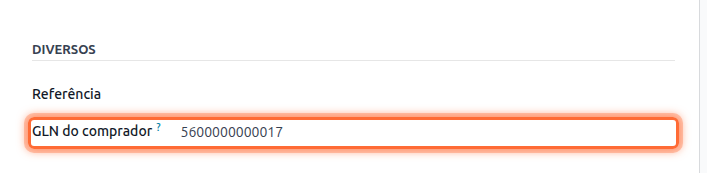
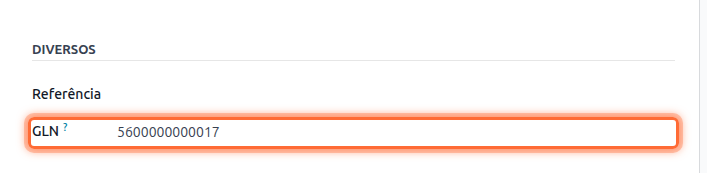
[17.0+][IMP] ptplus_edi_generix: client's GLN field

Changed region(s): [[0.0622, 0.7225, 0.4045, 0.8092]]

diff --git a/content/applications/invoicing/e-invoicing.rst b/content/applications/invoicing/e-invoicing.rst
@@ -123,15 +123,15 @@ o campo :guilabel:`Formato da fatura eletrónica` como :guilabel:`Portugal (CIUS
     contacto a ser faturado. A definição no parceiro principal é o suficiente e aplica-se de forma
     transparente sempre que um documento é emitido para qualquer um dos seus contactos.
 
-GLN do comprador (Generix)
-------------------------------
-Alguns clientes com várias lojas, por exemplo cadeias de retalho, identificam cada loja pelo seu
-GLN (*Global Location Number*). Com a **Generix EDI** instalada, pode indicar o GLN de cada loja
-no campo :guilabel:`GLN do comprador`:
+GLN do cliente e do local de entrega (Generix)
+--------------------------------------------------
+Alguns clientes com várias lojas, por exemplo cadeias de retalho, identificam cada loja e cada
+local de entrega pelo seu GLN (*Global Location Number*). Com a **Generix EDI** instalada, o
+campo :guilabel:`GLN` fica visível em todos os contactos:
 
-#. Abra a ficha do contacto da loja que usa como cliente nas faturas.
+#. Abra a ficha do contacto: a loja que usa como cliente nas faturas, ou a morada de entrega.
 #. No separador :guilabel:`Vendas e Compras`, secção **Diversos**, preencha o campo
-   :guilabel:`GLN do comprador`.
+   :guilabel:`GLN`.
 #. Guarde a ficha.
 
 .. image:: e-invoicing/v18_edi_partner_buyer_gln.png
@@ -140,19 +140,27 @@ no campo :guilabel:`GLN do comprador`:
 O campo também aparece no formulário de cada contacto, no separador
 :guilabel:`Endereços e contactos` da ficha do parceiro principal.
 
-Quando o cliente da fatura tem o GLN do comprador preenchido, o ficheiro CIUS-PT identifica o
-comprador por esse GLN. Sem este campo, o ficheiro identifica o comprador pela
-:guilabel:`Referência` do parceiro principal.
+O ficheiro CIUS-PT usa o GLN de dois contactos da fatura:
+
+.. list-table::
+   :header-rows: 1
+   :widths: 30 70
+
+   * - Contacto da fatura
+     - O que o GLN identifica no ficheiro CIUS-PT
+   * - **Cliente**
+     - O comprador. Sem GLN, o ficheiro identifica o comprador pela :guilabel:`Referência` do
+       parceiro principal.
+   * - **Morada de entrega**
+     - O local de entrega.
+
+Se a fatura não tiver morada de entrega, o Odoo usa o cliente como local de entrega. Nesse caso,
+o mesmo GLN identifica o comprador e o local de entrega.
 
 .. important::
-    Ao contrário do formato da fatura eletrónica, o GLN do comprador **não é herdado** do parceiro
-    principal. Preencha-o em cada contacto que usa como cliente nas faturas. O GLN do parceiro
-    principal só é usado nas faturas emitidas ao próprio parceiro principal.
-
-.. note::
-    O GLN do comprador não substitui o GLN do local de entrega. O GLN do local de entrega
-    preenche-se no campo :guilabel:`GLN` da morada de entrega e continua a ser enviado no ficheiro
-    CIUS-PT.
+    Ao contrário do formato da fatura eletrónica, o GLN **não é herdado** do parceiro principal.
+    Preencha-o em cada contacto que usa nas faturas, como cliente ou como morada de entrega. O GLN
+    do parceiro principal só é usado nas faturas emitidas ao próprio parceiro principal.
 
 Verificação prévia do destinatário
 --------------------------------------
